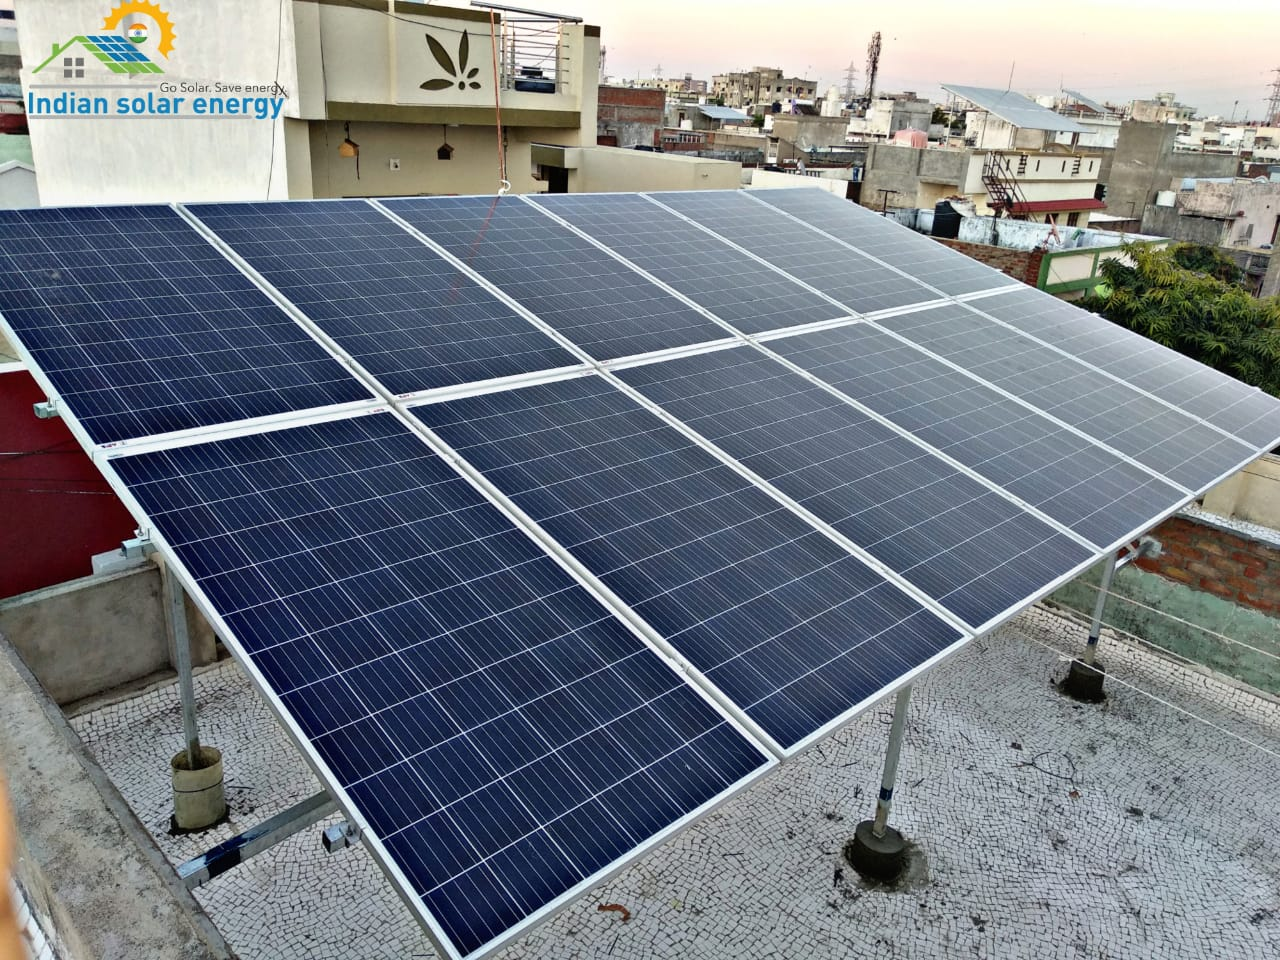
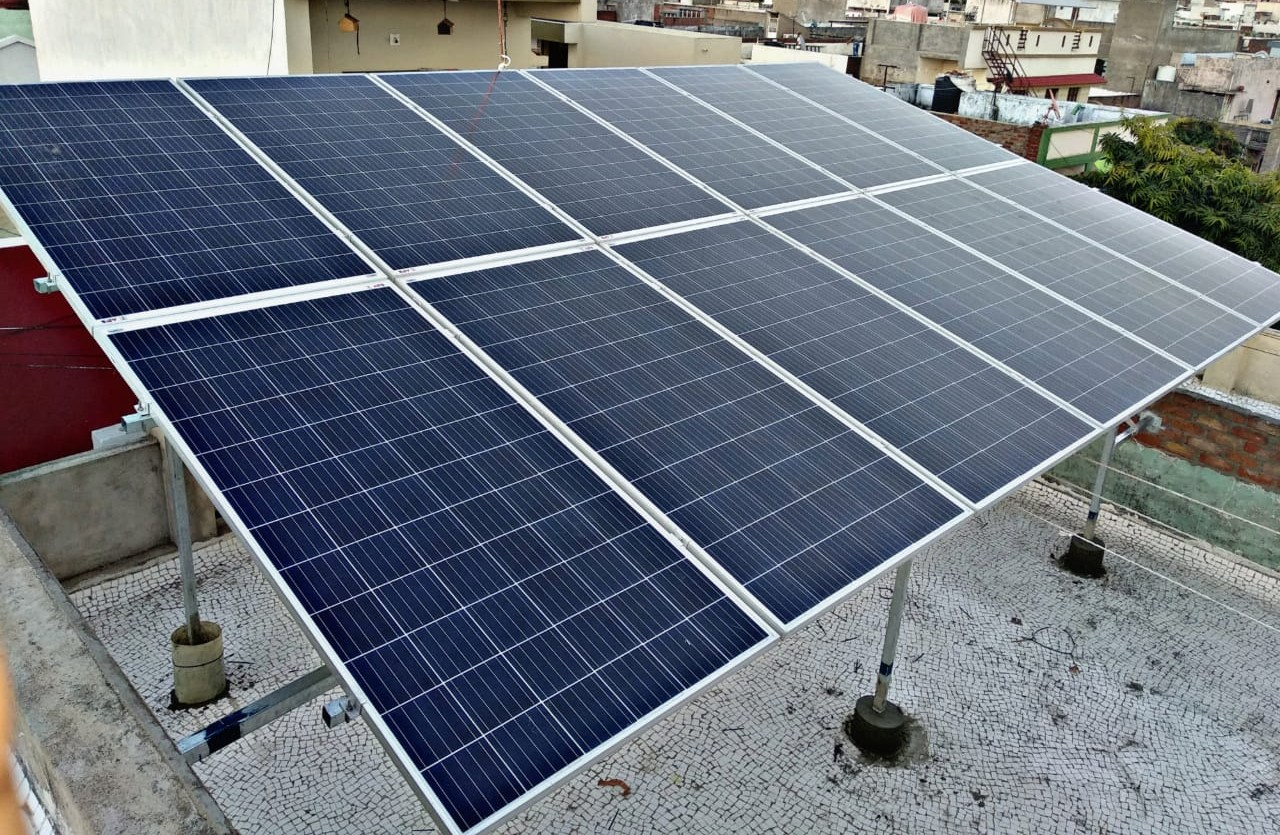
Project Capacity Update

diff --git a/src/app/projects/ProjectsClient.jsx b/src/app/projects/ProjectsClient.jsx
@@ -68,109 +68,109 @@ export default function ProjectsPage() {
         {
             title: "Residential Plant",
             location: "Ahmedabad",
-            capacity: "3.5 KW",
+            capacity: "3.7 KW",
             img: "/projects/2.jpeg"
         },
         {
             title: "Residential Plant",
             location: "Ahmedabad",
-            capacity: "3.5 KW",
+            capacity: "8 KW",
             img: "/projects/3.jpeg"
         },
         {
             title: "Residential Plant",
             location: "Ahmedabad",
-            capacity: "3.5 KW",
+            capacity: "3.7 KW",
             img: "/projects/4.jpeg"
         },
         {
             title: "Residential Plant",
             location: "Ahmedabad",
-            capacity: "3.5 KW",
+            capacity: "3.3 KW",
             img: "/projects/5.jpeg"
         },
         {
             title: "Residential Plant",
             location: "Ahmedabad",
-            capacity: "3.5 KW",
+            capacity: "12 KW",
             img: "/projects/6.jpeg"
         },
         {
             title: "Residential Plant",
             location: "Ahmedabad",
-            capacity: "3.5 KW",
+            capacity: "6 KW",
             img: "/projects/7.jpeg"
         },
         {
             title: "Residential Plant",
             location: "Ahmedabad",
-            capacity: "3.5 KW",
+            capacity: "24 KW",
             img: "/projects/8.jpeg"
         },
         {
             title: "Residential Plant",
             location: "Ahmedabad",
-            capacity: "3.5 KW",
+            capacity: "7 KW",
             img: "/projects/9.jpeg"
         },
         {
             title: "Residential Plant",
             location: "Ahmedabad",
-            capacity: "3.5 KW",
+            capacity: "5 KW",
             img: "/projects/10.jpeg"
         },
         {
             title: "Residential Plant",
             location: "Ahmedabad",
-            capacity: "3.5 KW",
+            capacity: "6.6 KW",
             img: "/projects/11.jpeg"
         },
         {
             title: "Residential Plant",
             location: "Ahmedabad",
-            capacity: "3.5 KW",
+            capacity: "12 KW",
             img: "/projects/12.jpeg"
         },
         {
             title: "Residential Plant",
             location: "Ahmedabad",
-            capacity: "3.5 KW",
+            capacity: "3.3 KW",
             img: "/projects/13.jpeg"
         },
         {
             title: "Residential Plant",
             location: "Ahmedabad",
-            capacity: "3.5 KW",
+            capacity: "3.6 KW",
             img: "/projects/14.jpeg"
         },
         {
             title: "Residential Plant",
             location: "Ahmedabad",
-            capacity: "3.5 KW",
+            capacity: "3.7 KW",
             img: "/projects/15.jpeg"
         },
         {
             title: "Residential Plant",
             location: "Ahmedabad",
-            capacity: "3.5 KW",
+            capacity: "3.7 KW",
             img: "/projects/16.jpeg"
         },
         {
             title: "Residential Plant",
-            location: "Ahmedabad",
-            capacity: "3.5 KW",
+            location: "Shree Nand Elite, Ahmedabad",
+            capacity: "71 KW",
             img: "/projects/17.jpeg"
         },
         {
             title: "Residential Plant",
             location: "Ahmedabad",
-            capacity: "3.5 KW",
+            capacity: "4.4 KW",
             img: "/projects/18.jpeg"
         },
         {
             title: "Residential Plant",
             location: "Ahmedabad",
-            capacity: "3.5 KW",
+            capacity: "4.4 KW",
             img: "/projects/19.jpeg"
         },
     ]
